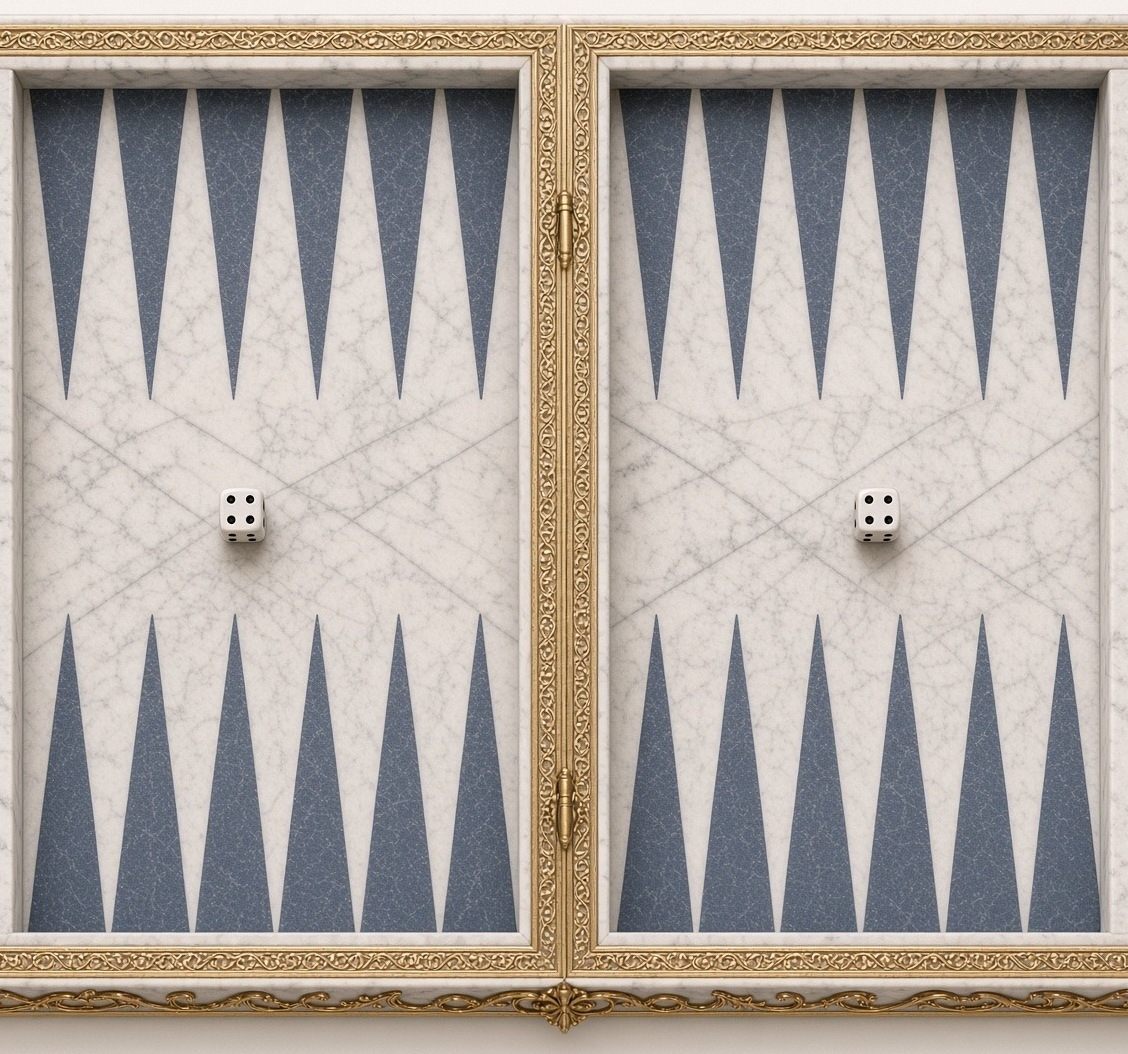
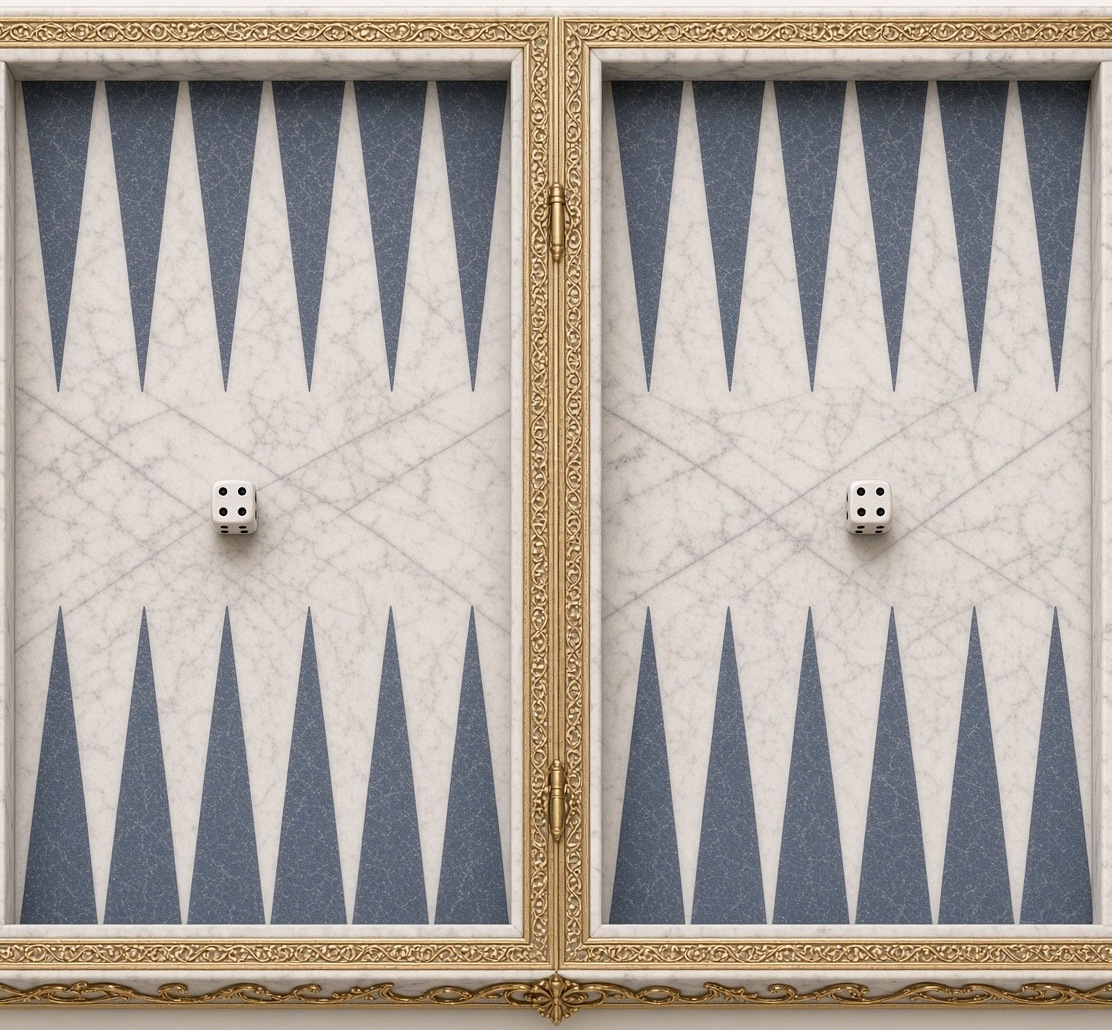
Update backgammon board

diff --git a/board.html b/board.html
@@ -167,14 +167,15 @@ body.seated[data-scene="bg"] .bgwrap{gap:8px;background:transparent}
 body.seated[data-scene="bg"] .bgframe{
   position:relative;
   max-width:none;width:100%;
-  padding:9% 3.5% 11%;
+  aspect-ratio:1112 / 1030;
+  padding:7.6% 4.6% 10.8%;
   border-radius:0;
   border:0;
   outline:none;
-  background-color:#e8dfd0;
-  background-image:url("backgammon-field.jpg"),url("backgammon-board-flat.jpg");
-  background-position:center,center;
-  background-size:100% 100%,cover;
+  background-color:transparent;
+  background-image:url("backgammon-field.jpg");
+  background-position:center;
+  background-size:100% 100%;
   background-repeat:no-repeat;
   overflow:hidden;
   box-shadow:0 22px 36px rgba(30,22,12,.35)
@@ -183,12 +184,19 @@ body.seated[data-scene="bg"] .bgframe::before,
 body.seated[data-scene="bg"] .bgframe::after{content:none;display:none}
 body.seated[data-scene="bg"] .bgboard{
   position:relative;z-index:3;
+  width:100%;height:100%;
   background:transparent;
   border:0;
   box-shadow:none;
-  grid-template-rows:1fr 1fr
+  grid-template-columns:repeat(6,minmax(0,1fr)) 6.4% repeat(6,minmax(0,1fr));
+  grid-template-rows:1fr 1fr;
+  min-height:0
 }
-body.seated[data-scene="bg"] .bgpt::before{opacity:.12}
+body.seated[data-scene="bg"] .bgpt{min-height:0}
+body.seated[data-scene="bg"] .bgpt::before{display:none}
+body.seated[data-scene="bg"] .bgpt.top .stack{top:2%;gap:1px}
+body.seated[data-scene="bg"] .bgpt.bot .stack{bottom:2%;gap:1px}
+body.seated[data-scene="bg"] .bgchk{width:78%;height:auto;max-width:34px}
 body.seated[data-scene="bg"] .bgmid{display:none}
 body.seated[data-scene="bg"] .bgbar{
   background:linear-gradient(180deg,#e8d7a8,#c9a66b 55%,#b8893a);
